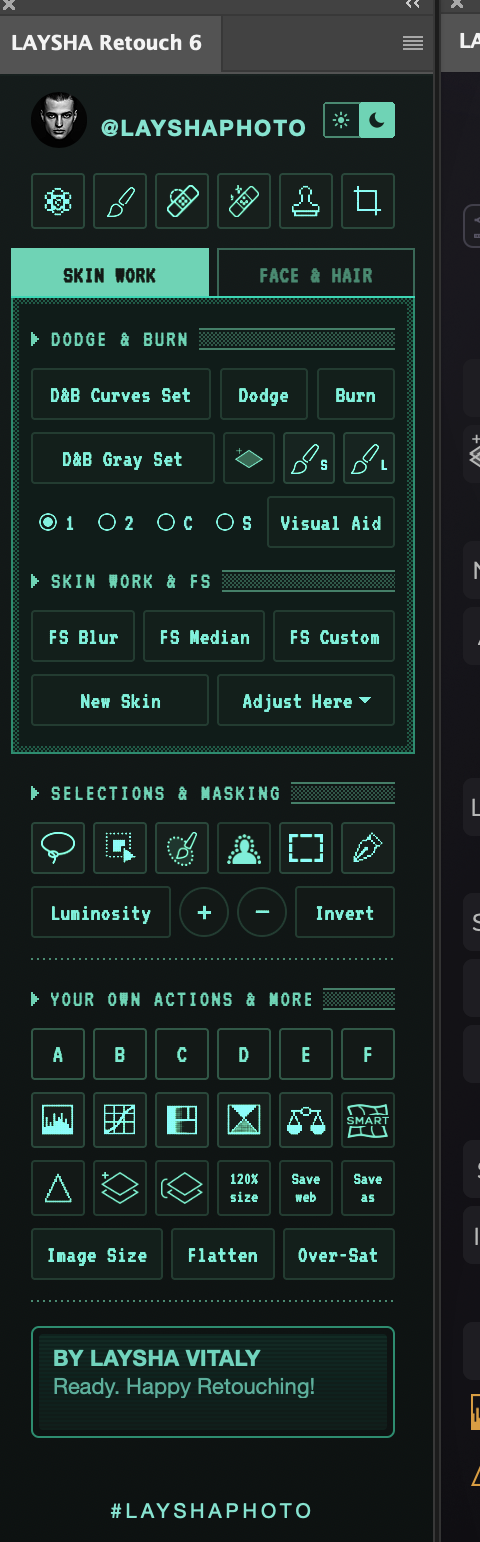
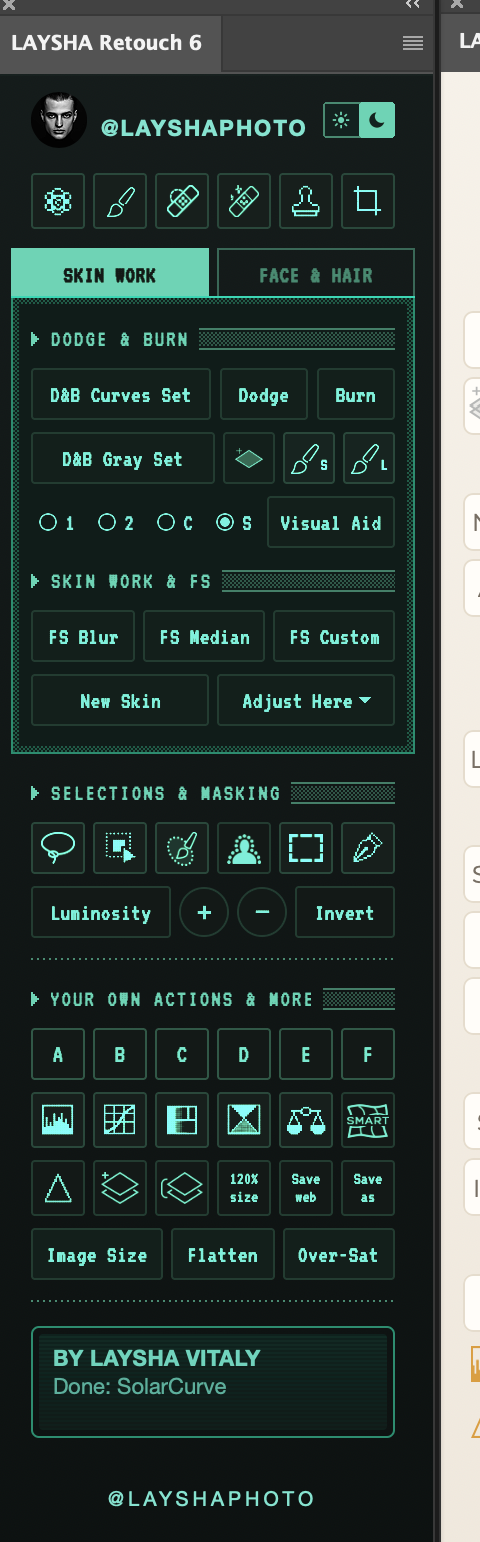
v5: pastel light theme, remove tutorials button; v6: @LAYSHAPHOTO footer raised

Changed region(s): [[0.9062, 0.0311, 1.0, 1.0], [0.1562, 0.8716, 0.6562, 0.9027], [0.2188, 0.965, 0.6562, 0.9961]]

diff --git a/MyRetouchPanel/css/styles.css b/MyRetouchPanel/css/styles.css
@@ -1,9 +1,9 @@
-body,
+body,
 html {
   /* background-color: var(--uxp-host-background-color); */
   width: 208px;
   height: 743px;
-  background: url("../img/background.png");
+  background: linear-gradient(180deg, #f7f1e8, #f1e8dc);
   background-size: cover;
   background-repeat: no-repeat;
   margin: 0;
@@ -48,10 +48,10 @@ html {
   /* outline: 1px solid red; */
 }
 .primary-btn {
-  background-color: #1e1d22;
+  background-color: #fffdf8;
   border-radius: 5px;
-  border: 1px solid #1e1d22;
-  color: #b7b8b7;
+  border: 1px solid #e7dccb;
+  color: #7a6f63;
   font-size: 12px;
   display: flex;
   align-items: center;
@@ -66,17 +66,17 @@ html {
 }
 
 .primary-btn:hover {
-  background-color: #1e1d22;
-  border: 1px solid #413f4b;
+  background-color: #fffdf8;
+  border: 1px solid #d8c9b4;
   border-radius: 5px;
-  color: #b7b8b7;
+  color: #6b5f52;
 }
 
 .secondary-btn {
-  background-color: #1e1d22;
+  background-color: #fffdf8;
   border-radius: 5px;
-  border: 1px solid #413f4b;
-  color: #4f4f4f;
+  border: 1px solid #e0d4c2;
+  color: #8a7d6e;
   font-size: 12px;
   display: flex;
   align-items: center;
@@ -87,9 +87,9 @@ html {
 }
 
 .secondary-btn:hover {
-  background-color: #413f4b;
+  background-color: #f3e9da;
   border-radius: 5px;
-  color: #9a97a5;
+  color: #7a6c5c;
 }
 
 
@@ -99,12 +99,12 @@ html {
 }
 
 .btn-icon:hover {
-  border: 1px solid #2a2931;
+  border: 1px solid #e0d4c2;
 }
 
 h1.title {
-  color: #4fa0ae;
-  text-shadow: 1px 1px 1px #89b0a7;
+  color: #5d99a4;
+  text-shadow: 1px 1px 1px #ffffff;
   font-size: 12px;
   width: 100%;
   margin: auto;

diff --git a/MyRetouchPanel/index.html b/MyRetouchPanel/index.html
@@ -12,20 +12,11 @@
     <div id="brand" data-url="https://instagram.com/layshaphoto"
       style="display:flex; align-items:center; cursor:pointer; padding:8px 12px;">
       <img src="img/laysha-logo.png" width="44px" height="44px" style="border-radius:50%; flex:0 0 auto;" />
-      <span style="flex:1 1 auto; text-align:center; font-family:Menlo,Consolas,monospace; font-size:12px; font-weight:700; letter-spacing:1px; color:#e8a25e;">@LAYSHAPHOTO</span>
+      <span style="flex:1 1 auto; text-align:center; font-family:Menlo,Consolas,monospace; font-size:12px; font-weight:700; letter-spacing:1px; color:#d18a4e;">@LAYSHAPHOTO</span>
     </div>
 
     <!-- Top Section -->
     <div class="" style="padding-top: 5px;">
-      <div class="row">
-        <div class="secondary-btn" style="width: 25px; ">
-          <div data-url="https://instagram.com/layshaphoto"
-            class="d-flex justify-content-center align-items-center figure">
-            <img src="img/tutorials.png" width="14px" height="12px" class="Sirv image-main" />
-            <img src="img/hover/tutorials.png" width="14px" height="12px" class="Sirv image-hover" />
-          </div>
-        </div>
-      </div>
       <div class="row" style="padding: 2px 10px;">
         <div data-cmd="AITool" class="figure">
           <img src="img/AI Button.png" width="17px" height="17px" class="Sirv image-main" />

diff --git a/MyRetouchPanel6/css/styles.css b/MyRetouchPanel6/css/styles.css
@@ -57,9 +57,9 @@ body.theme-dark .brand-link { color: #62E6D0; }
    pane gets its air from the zone padding; these two had none. 7px matches .section. */
 .hdr-gap { margin-top: 7px; }
 
-/* footer: #LAYSHAPHOTO text link under the Screen */
-.footer-www { margin: 2px auto 0 auto; text-align: center; font-family: "Helvetica Neue", Arial, sans-serif;
-  font-size: 10px; letter-spacing: 2px; padding: 5px 0 2px; cursor: pointer; color: #4a5140; opacity: .9; }
+/* footer: @LAYSHAPHOTO text link under the Screen */
+.footer-www { margin: 0 auto; text-align: center; font-family: "Helvetica Neue", Arial, sans-serif;
+  font-size: 10px; letter-spacing: 2px; padding: 1px 0 10px; cursor: pointer; color: #4a5140; opacity: .9; }
 .footer-www:hover { opacity: 1; text-decoration: underline; }
 body.theme-dark .footer-www { color: #62E6D0; }
 #raScreen { margin-top: 17px; }

diff --git a/MyRetouchPanel6/index.html b/MyRetouchPanel6/index.html
@@ -89,7 +89,7 @@
   </div>
 </div>
 
-<div class="footer-www" data-url="https://instagram.com/layshaphoto" data-tip="@layshaphoto — Instagram">#LAYSHAPHOTO</div>
+<div class="footer-www" data-url="https://instagram.com/layshaphoto" data-tip="@layshaphoto — Instagram">@LAYSHAPHOTO</div>
 
 <!-- New Skin card (newSkin.js fills it; JKM 2026-10-08): hangs from the New Skin row, over the panel down to the Screen. -->
 <div id="nsDrawer"></div>
